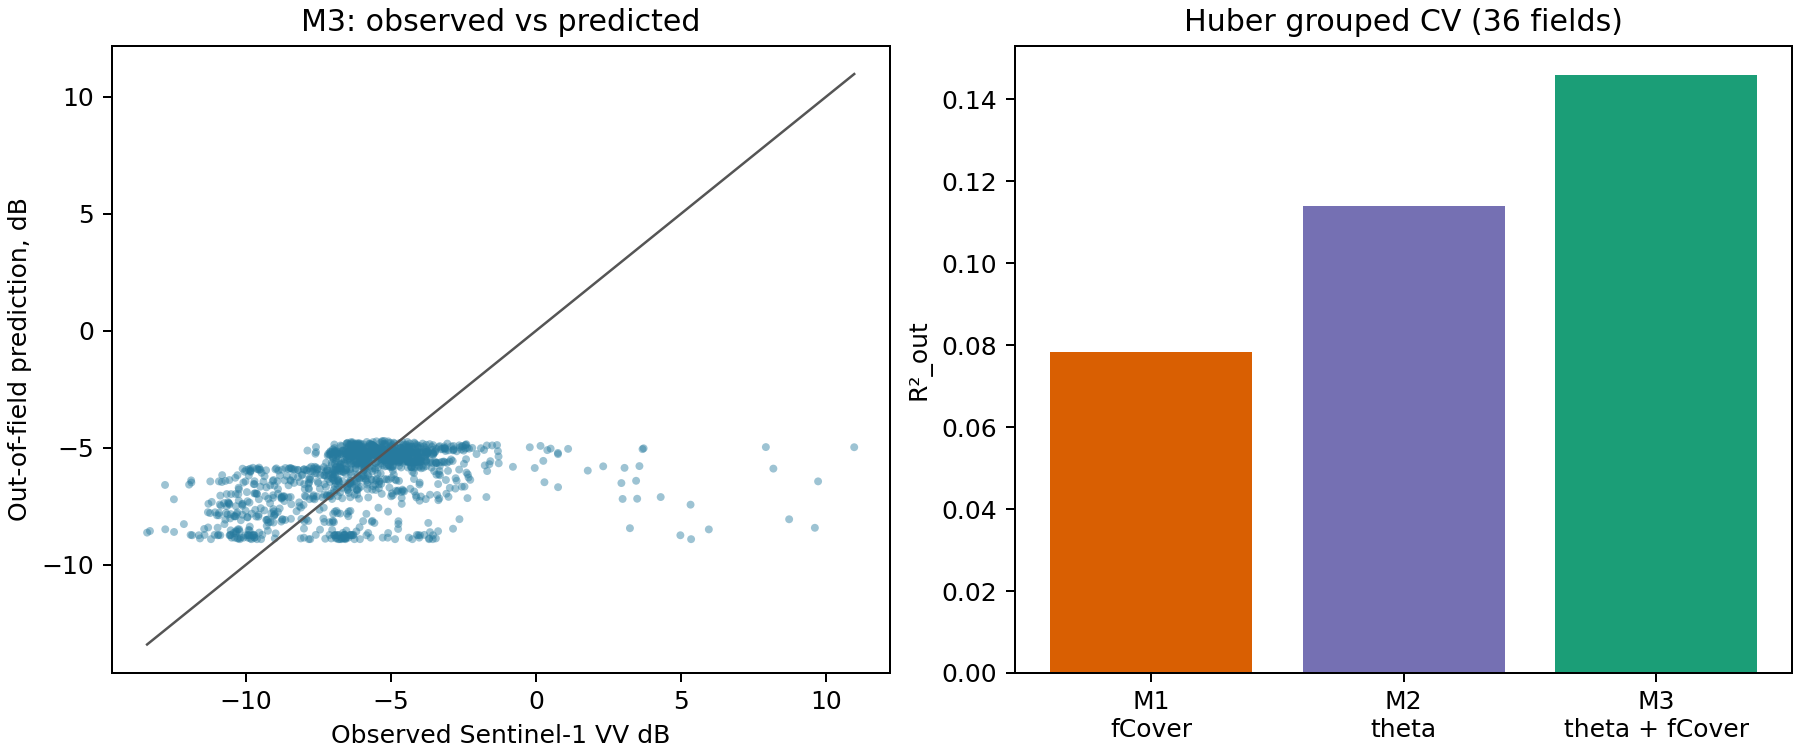
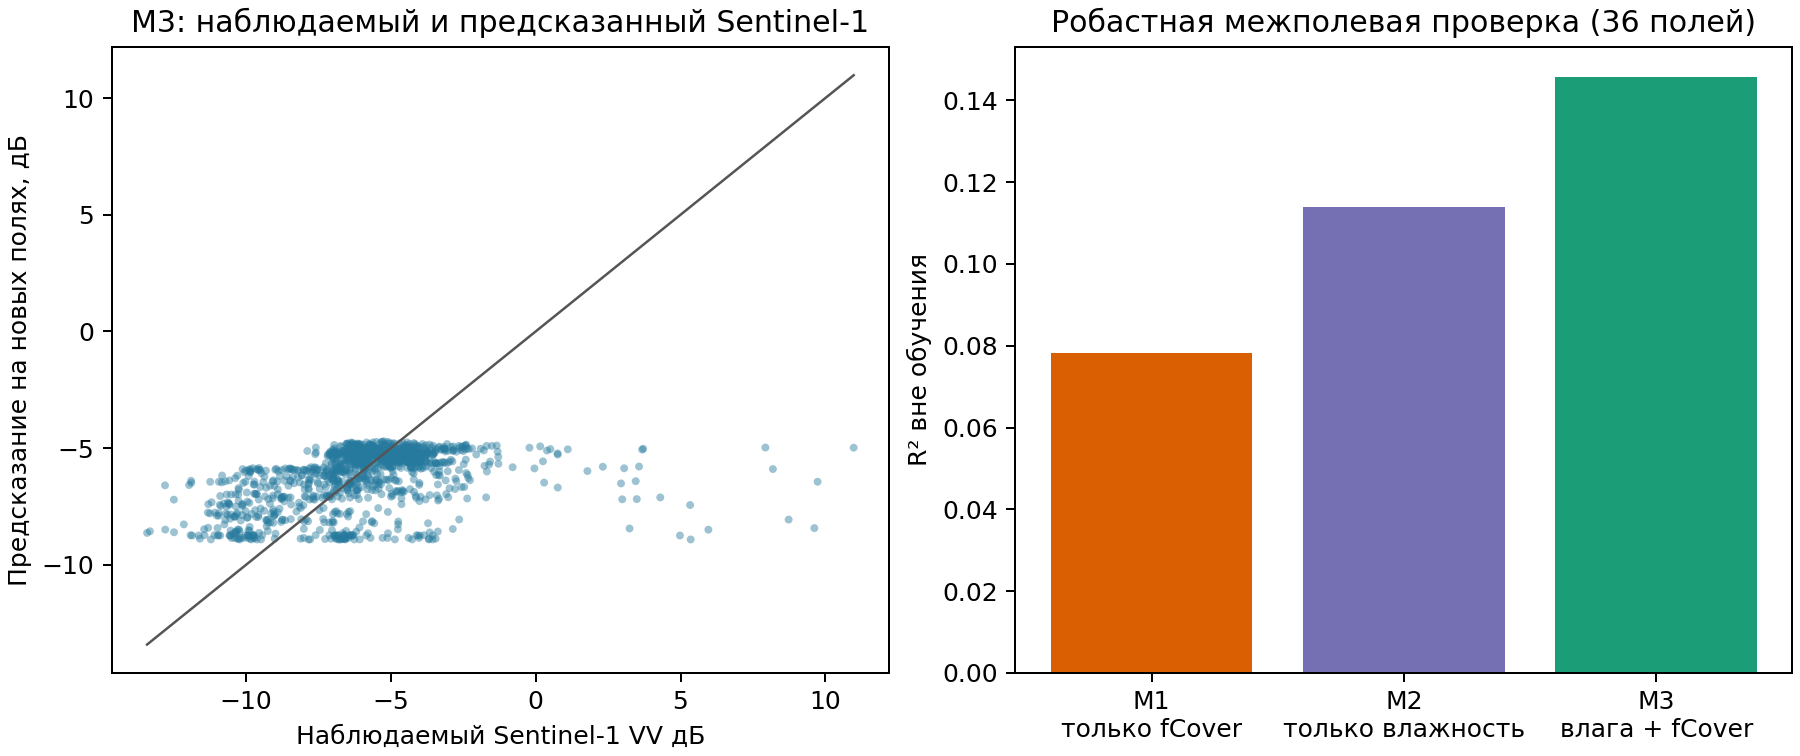
Localize and fit QGIS experiment charts

diff --git a/scripts/analysis/run_s1_s2_surface_validation.py b/scripts/analysis/run_s1_s2_surface_validation.py
@@ -263,10 +263,10 @@ def save_figure(path: Path, predictions: list[dict], report: dict) -> None:
     left.scatter(actual, predicted, s=10, alpha=.45, color="#267a9e", edgecolors="none")
     limits = [min(actual.min(), predicted.min()), max(actual.max(), predicted.max())]
     left.plot(limits, limits, color="#555555", linewidth=1)
-    left.set(xlabel=f"Observed Sentinel-1 {report['s1_index']}", ylabel="Out-of-field prediction, dB", title="M3: observed vs predicted")
-    right.bar(("M1\nfCover", "M2\ntheta", "M3\ntheta + fCover"), values, color=("#d95f02", "#7570b3", "#1b9e77"))
+    left.set(xlabel=f"Наблюдаемый Sentinel-1 {report['s1_index'].replace('dB', 'дБ')}", ylabel="Предсказание на новых полях, дБ", title="M3: наблюдаемый и предсказанный Sentinel-1")
+    right.bar(("M1\nтолько fCover", "M2\nтолько влажность", "M3\nвлага + fCover"), values, color=("#d95f02", "#7570b3", "#1b9e77"))
     right.axhline(0, color="#555555", linewidth=1)
-    right.set(ylabel="R²_out", title="Huber grouped CV (36 fields)")
+    right.set(ylabel="R² вне обучения", title="Робастная межполевая проверка (36 полей)")
     path.parent.mkdir(parents=True, exist_ok=True)
     figure.savefig(path, dpi=180)
     plt.close(figure)

diff --git a/qgis_plugins/water_regime_gis_plugin/plugin.py b/qgis_plugins/water_regime_gis_plugin/plugin.py
@@ -824,14 +824,27 @@ class ExperimentChartsDialog(QDialog):
         self.resize(1120, 760)
         tabs = QTabWidget(self)
         for path in paths:
-            image = QLabel()
-            image.setPixmap(QPixmap(str(path)))
-            image.setAlignment(Qt.AlignCenter)
+            image = FitImageLabel(path)
             scroll = QScrollArea()
+            scroll.setWidgetResizable(True)
             scroll.setWidget(image)
             tabs.addTab(scroll, path.stem.removeprefix("sp_s1_s2_surface_validation_"))
         layout = QVBoxLayout(self)
         layout.addWidget(tabs)
+
+
+class FitImageLabel(QLabel):
+    """Keep a chart fully visible while preserving its aspect ratio."""
+
+    def __init__(self, path: Path):
+        super().__init__()
+        self.source = QPixmap(str(path))
+        self.setAlignment(Qt.AlignCenter)
+
+    def resizeEvent(self, event):
+        if not self.source.isNull():
+            self.setPixmap(self.source.scaled(self.size(), Qt.KeepAspectRatio, Qt.SmoothTransformation))
+        super().resizeEvent(event)
 
 
 class FieldIndexChartDialog(QDialog):

diff --git a/scripts/check_qgis_plugin.py b/scripts/check_qgis_plugin.py
@@ -36,6 +36,7 @@ def main() -> int:
     assert "Обновить Sentinel-1/2" in plugin
     assert "Диаграммы эксперимента" in plugin
     assert "ExperimentChartsDialog" in plugin
+    assert "FitImageLabel" in plugin
     assert "REFRESH_EXPERIMENT_CHARTS_SCRIPT" in plugin
     assert "QProgressBar" in plugin
     assert "set_toolbar_action_color" in plugin

diff --git a/docs/wiki/AGENT_CONTEXT.md b/docs/wiki/AGENT_CONTEXT.md
@@ -29,6 +29,8 @@
   открывает в QGIS все PNG
   `results/figures/sp_s1_s2_surface_validation*.png` на отдельных вкладках:
   основной VV/65, VH, 90 см и sensitivity-подвыборку FCOVER.
+  Все подписи диаграмм русифицированы, а просмотрщик масштабирует изображение
+  с сохранением пропорций, чтобы оно целиком помещалось во вкладке QGIS.
 - Новый рабочий вход: кнопка `Загрузить контуры полей` принимает локальный
   полигональный слой, а `Загрузить ряды из сервиса` — прямой HTTPS URL CSV/ZIP
   с колонкой `day` или `date`. Успешная выгрузка запускает
